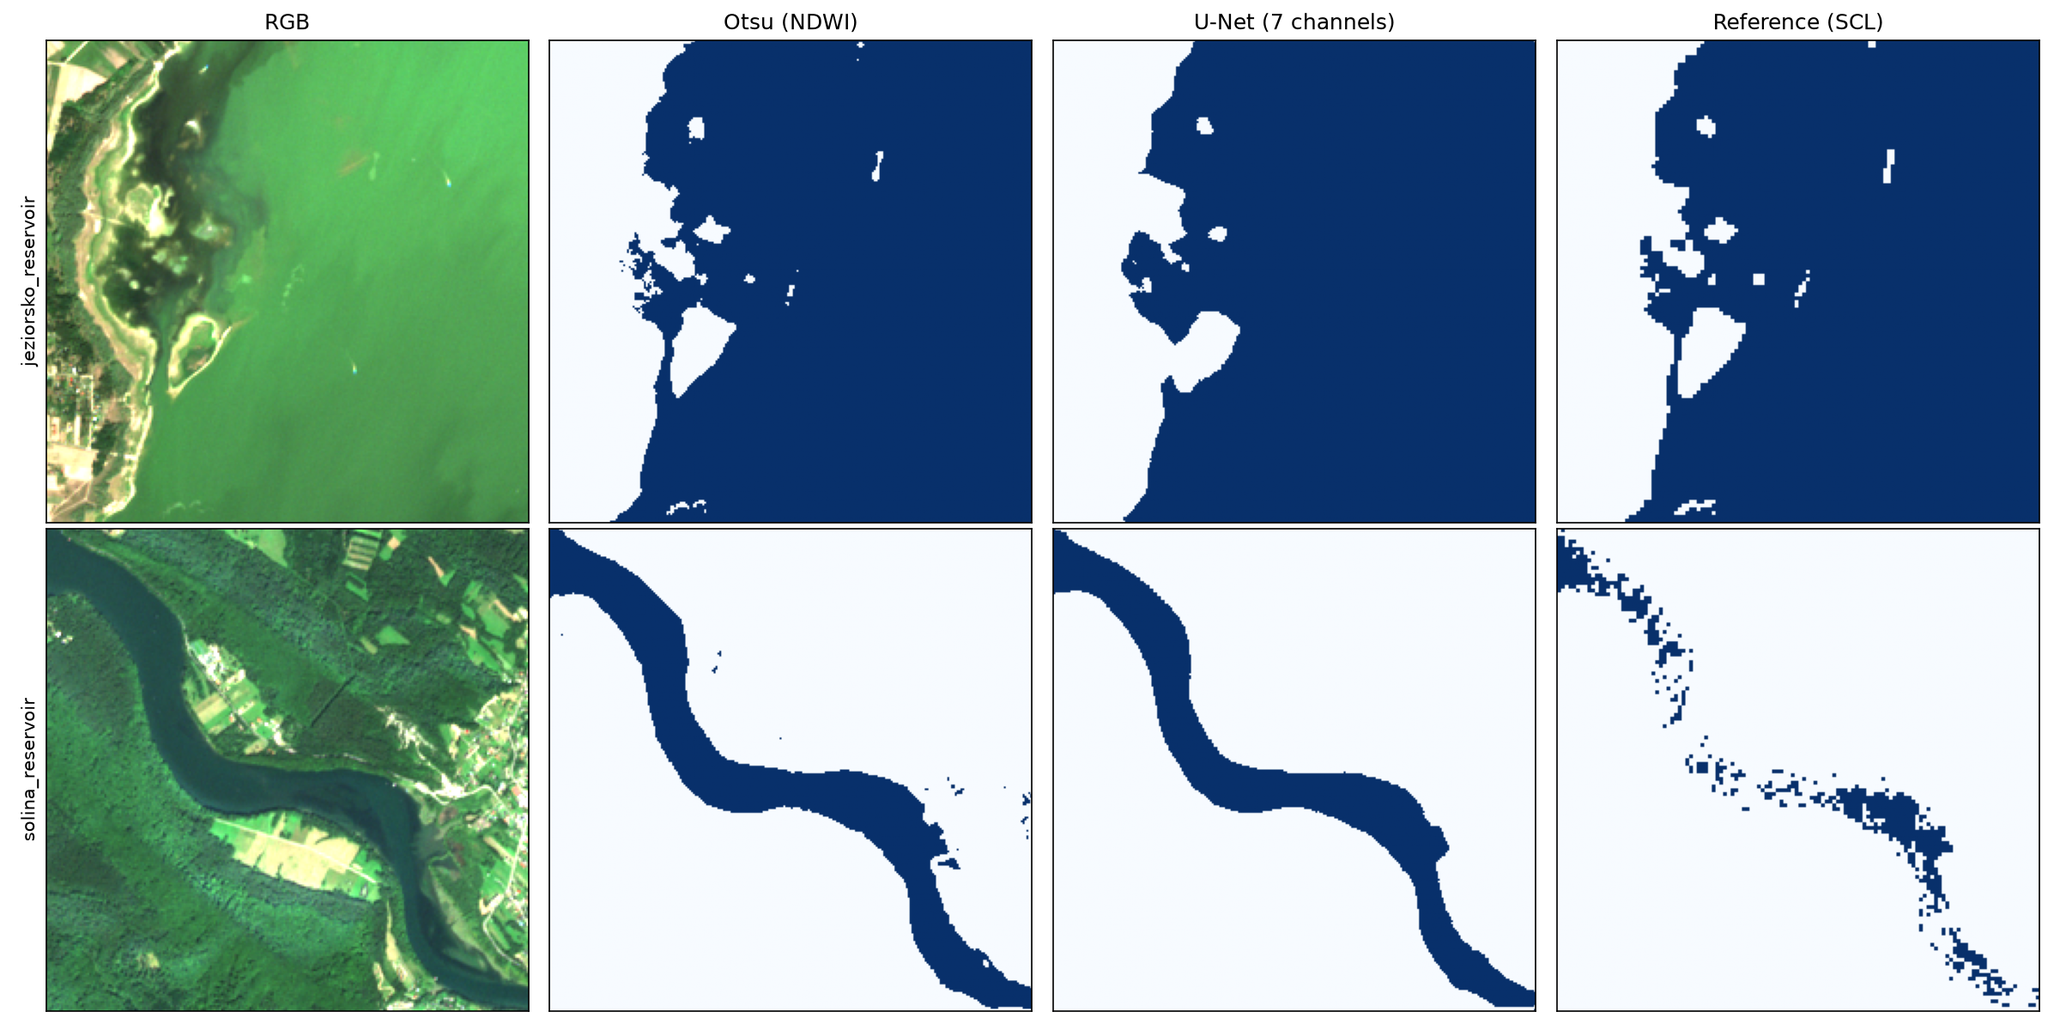
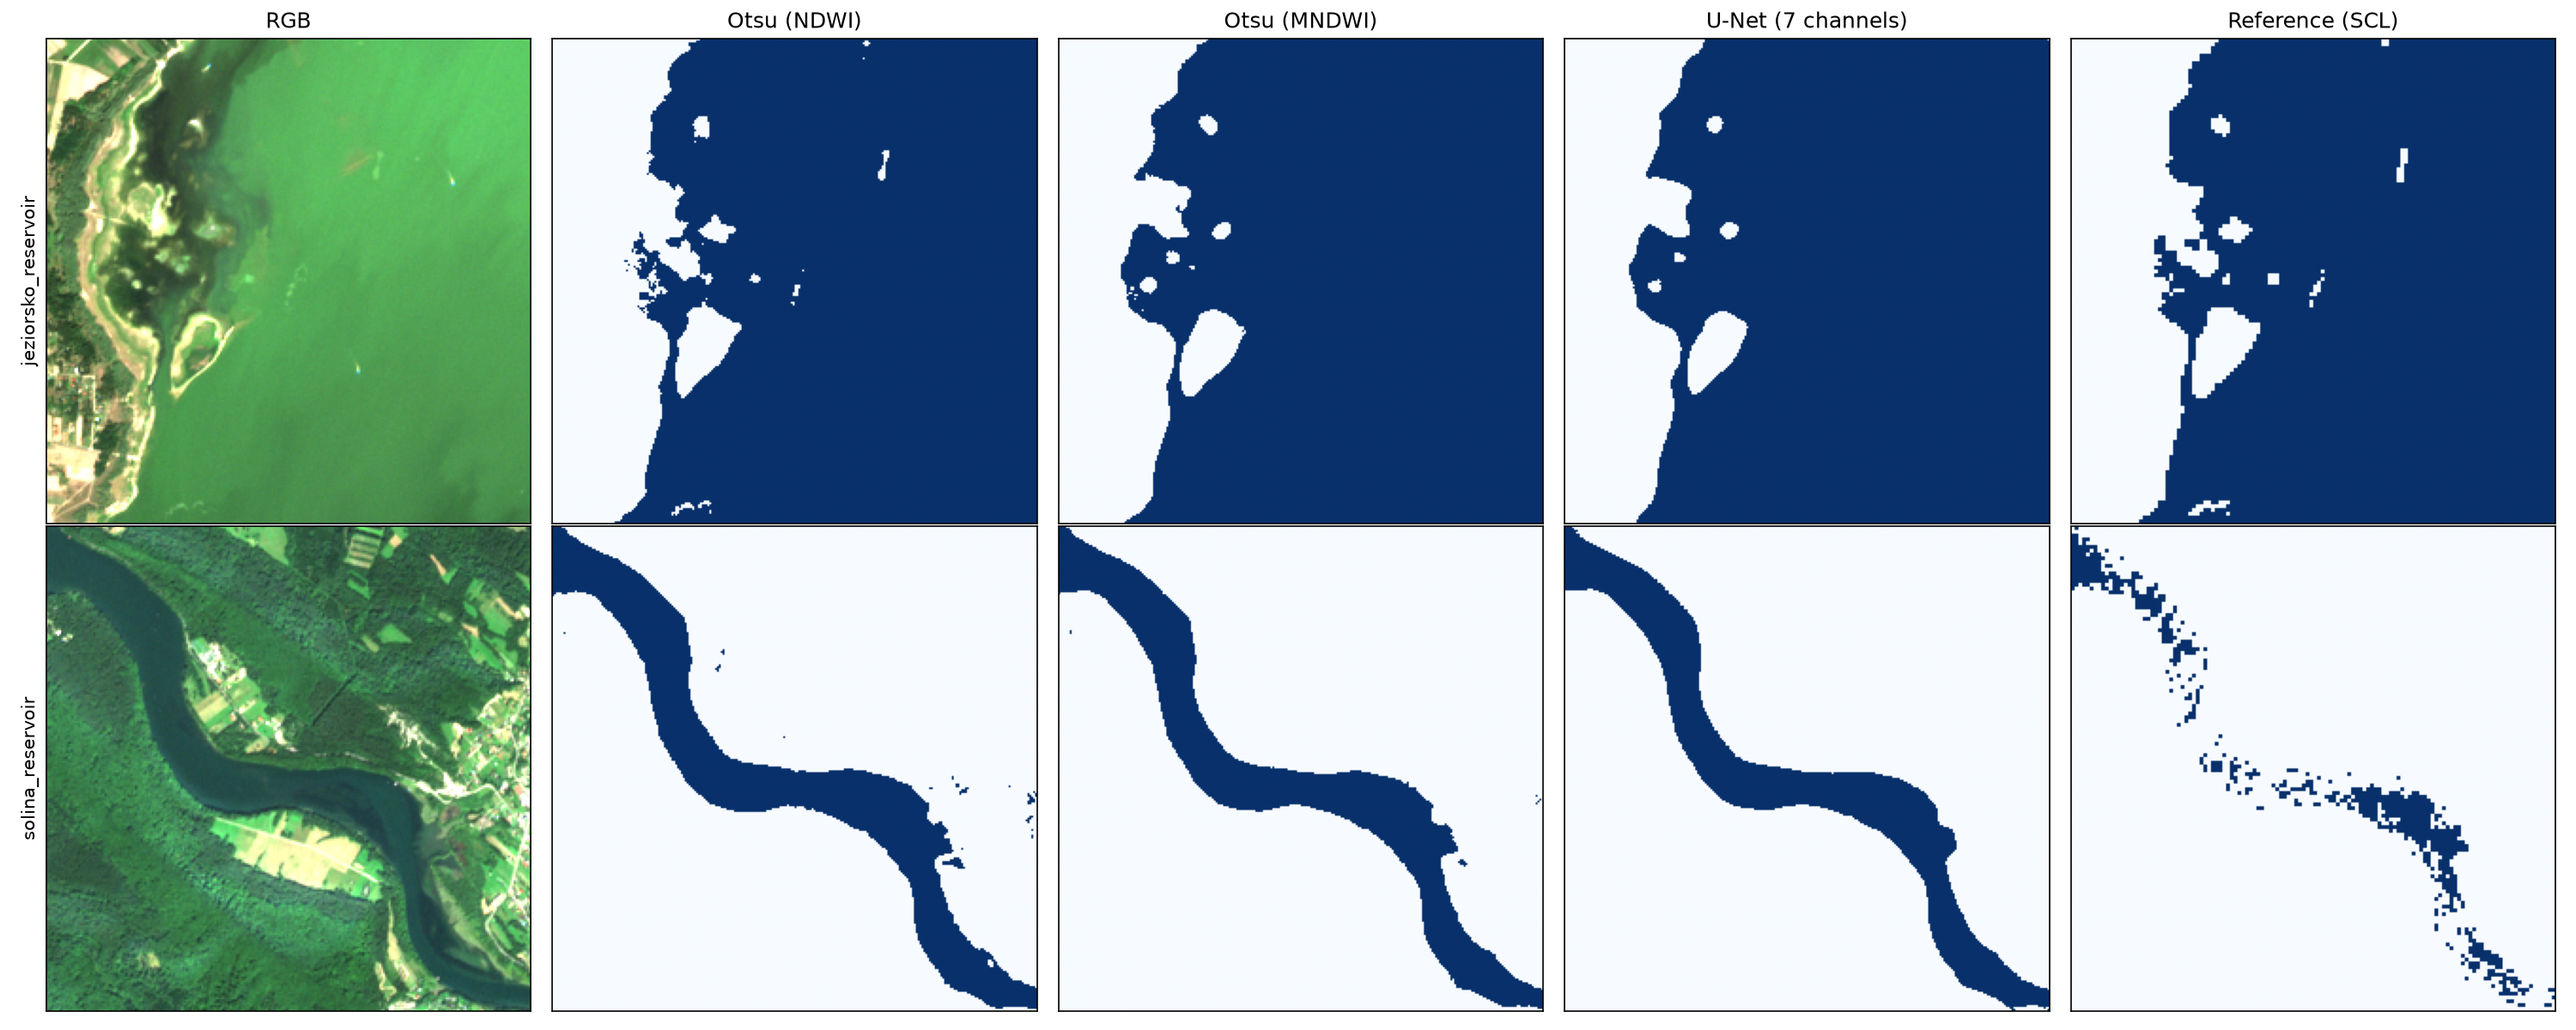
Update results after grid alignment fix and MNDWI baseline

diff --git a/README.md b/README.md
@@ -1,6 +1,6 @@
-# Sentinel-2 Surface Water Segmentation: U-Net vs Otsu Baseline
+# Sentinel-2 Surface Water Segmentation: U-Net vs Otsu Baselines
 
-Segmentation of surface water in Sentinel-2 Level-2A imagery with a U-Net (ResNet-34 encoder) trained on 7 input channels, benchmarked against a classical Otsu threshold on NDWI. The model is evaluated on water bodies it never saw during training, including a mountain reservoir where the reference labels themselves turn out to be unreliable.
+Segmentation of surface water in Sentinel-2 Level-2A imagery with a U-Net (ResNet-34 encoder) trained on 7 input channels, benchmarked against classical Otsu thresholds on NDWI and MNDWI. The model is evaluated on water bodies it never saw during training, including a mountain reservoir where the reference labels themselves turn out to be unreliable.
 
 ## Data
 
@@ -28,7 +28,7 @@ Tiles are kept only if they contain 2–98% water and less than 5% invalid pixel
 - `NDWI = (B03 - B08) / (B03 + B08)`
 - `MNDWI = (B03 - B11) / (B03 + B11)`
 
-Reflectance is corrected for the processing baseline 04.00+ offset (DN - 1000, read from scene metadata) and scaled to the range 0–1.
+Reflectance is corrected for the processing baseline 04.00+ offset (DN - 1000, read from scene metadata) and scaled to the range 0–1. The crop window is aligned to the 20 m grid, so the 10 m bands, B11 and the SCL labels cover exactly the same pixels.
 
 ## Training
 
@@ -41,16 +41,19 @@ Reflectance is corrected for the processing baseline 04.00+ offset (DN - 1000, r
 
 ## Results (test set)
 
-Metrics are computed globally over all pixels of each area. The baseline thresholds NDWI with Otsu's method separately for each tile.
+Metrics are computed globally over all pixels of each area. Both baselines apply Otsu's threshold to a water index separately for each tile: NDWI (green/NIR) and MNDWI (green/SWIR). The MNDWI baseline uses the same SWIR information as U-Net, which makes the comparison fairer.
 
 | Area | Method | IoU | Dice | Precision | Recall |
 |---|---|---|---|---|---|
-| Jeziorsko | Otsu (NDWI) | 0.951 | 0.975 | 0.960 | 0.990 |
-| Jeziorsko | U-Net | 0.949 | 0.974 | 0.954 | 0.994 |
+| Jeziorsko | Otsu (NDWI) | **0.956** | **0.978** | **0.962** | 0.994 |
+| Jeziorsko | Otsu (MNDWI) | 0.943 | 0.971 | 0.947 | 0.996 |
+| Jeziorsko | U-Net | 0.944 | 0.971 | 0.946 | 0.997 |
 | Solina | Otsu (NDWI) | 0.833 | 0.909 | 0.833 | 1.000 |
-| Solina | U-Net | **0.886** | **0.939** | **0.894** | 0.989 |
-| **All test tiles** | Otsu (NDWI) | 0.909 | 0.953 | 0.915 | 0.993 |
-| **All test tiles** | U-Net | **0.928** | **0.963** | **0.935** | 0.992 |
+| Solina | Otsu (MNDWI) | 0.873 | 0.932 | 0.876 | 0.996 |
+| Solina | U-Net | **0.891** | **0.942** | **0.901** | 0.987 |
+| **All test tiles** | Otsu (NDWI) | 0.913 | 0.954 | 0.917 | 0.996 |
+| **All test tiles** | Otsu (MNDWI) | 0.920 | 0.958 | 0.923 | 0.996 |
+| **All test tiles** | U-Net | **0.926** | **0.962** | **0.932** | 0.994 |
 
 ![Test set examples](./outputs/figures/evaluation_test.png)
 
@@ -58,21 +61,24 @@ Full per-area metrics: [`outputs/tables/metrics_test.csv`](./outputs/tables/metr
 
 ## Discussion
 
-**Lowland reservoir (Jeziorsko):** both methods perform almost identically. On a clear summer scene with an open water surface, a simple NDWI threshold is already a strong baseline.
+**U-Net vs index thresholds:** U-Net has the highest overall IoU, but the margin over the stronger baseline (Otsu on MNDWI) is small: 0.926 vs 0.920. On clear summer imagery, a simple, unsupervised threshold on a water index gets very close to a trained deep learning model and is worth checking first.
 
-**Mountain reservoir (Solina):** in a narrow, shaded arm of the reservoir the SCL reference marks only fragments of the water surface (about 5% of the tile), while the RGB image, the Otsu mask and the U-Net prediction all show a continuous water body (about 14% of the tile). On the remaining Solina tiles the disagreement is much smaller: a 2–5% band of pixels, mostly along the shoreline, with positive MNDWI values that SCL does not label as water. Part of the lower precision in Solina therefore comes from the reference, not from the predictions.
+**Lowland reservoir (Jeziorsko):** Otsu on NDWI matches the reference best. U-Net and Otsu on MNDWI produce smoother shorelines and miss some small shoreline details present in SCL. SCL itself relies largely on spectral thresholds, so an NDWI threshold may agree with it partly by construction.
 
-U-Net agrees more closely with SCL here than Otsu does. Without an independent reference it is not possible to tell whether this means better segmentation or that the model has learned to reproduce SCL's behaviour.
+**Mountain reservoir (Solina):** in a narrow, shaded arm of the reservoir the SCL reference marks only fragments of the water surface (about 5% of the tile), while the RGB image and all three methods show a continuous water body (about 14% of the tile). On the remaining Solina tiles the disagreement is much smaller: a 2–5% band of pixels, mostly along the shoreline, with positive MNDWI values that SCL does not label as water. Part of the lower precision in Solina therefore comes from the reference, not from the predictions.
+
+U-Net agrees most closely with SCL in Solina. Without an independent reference it is not possible to tell whether this means better segmentation or that the model has learned to reproduce SCL's behaviour.
 
 This shows the main weakness of using SCL as ground truth: in difficult conditions (terrain shadows, shorelines) the metrics partly measure agreement with Sen2Cor rather than correctness.
 
 ## Limitations
 
 - **Reference labels:** SCL is a classifier output, not verified ground truth. It is used for both training and evaluation, so the model partly learns to reproduce SCL behaviour, including its errors. An independent reference (e.g. ESA WorldCover or manual annotation) would make the test results more reliable.
-- **Small test set:** two reservoirs (18 tiles). Results show a trend, not a general performance estimate.
+- **Small test set and single run:** two reservoirs (18 tiles) and one training run, with no estimate of variance across seeds. Differences below about 0.01 IoU should not be treated as meaningful.
 - **Shared acquisition dates:** several areas (including the Jeziorsko test reservoir and three training/validation areas) come from the same Sentinel-2 overpass on 15 August 2023, so they share atmospheric and illumination conditions.
 - **Single season:** all scenes are from summer 2023 with almost no clouds. Winter, ice, turbid water and cloudy conditions are not covered.
 - **Tile filter:** tiles with less than 2% or more than 98% water are excluded, which removes both the hardest and the most trivial cases.
+- **Invalid pixels:** tiles may contain up to 5% pixels flagged by SCL as clouds, cloud shadows or no data. They are treated as non-water in training and evaluation. With 0–0.1% scene cloud cover the effect is negligible, but they are not masked out.
 - **Checkpoint selection:** the best model is chosen by IoU on a single validation lake (12 tiles), which is a noisy criterion.
 
 ## Project structure
@@ -84,7 +90,7 @@ src/
   dataset.py         # PyTorch Dataset
   model.py           # U-Net definition
   train.py           # training loop with augmentations
-  evaluate.py        # U-Net vs Otsu on the test set, per-area metrics and figure
+  evaluate.py        # U-Net vs Otsu (NDWI, MNDWI) on the test set, per-area metrics and figure
 ```
 
 ## Setup & Run
